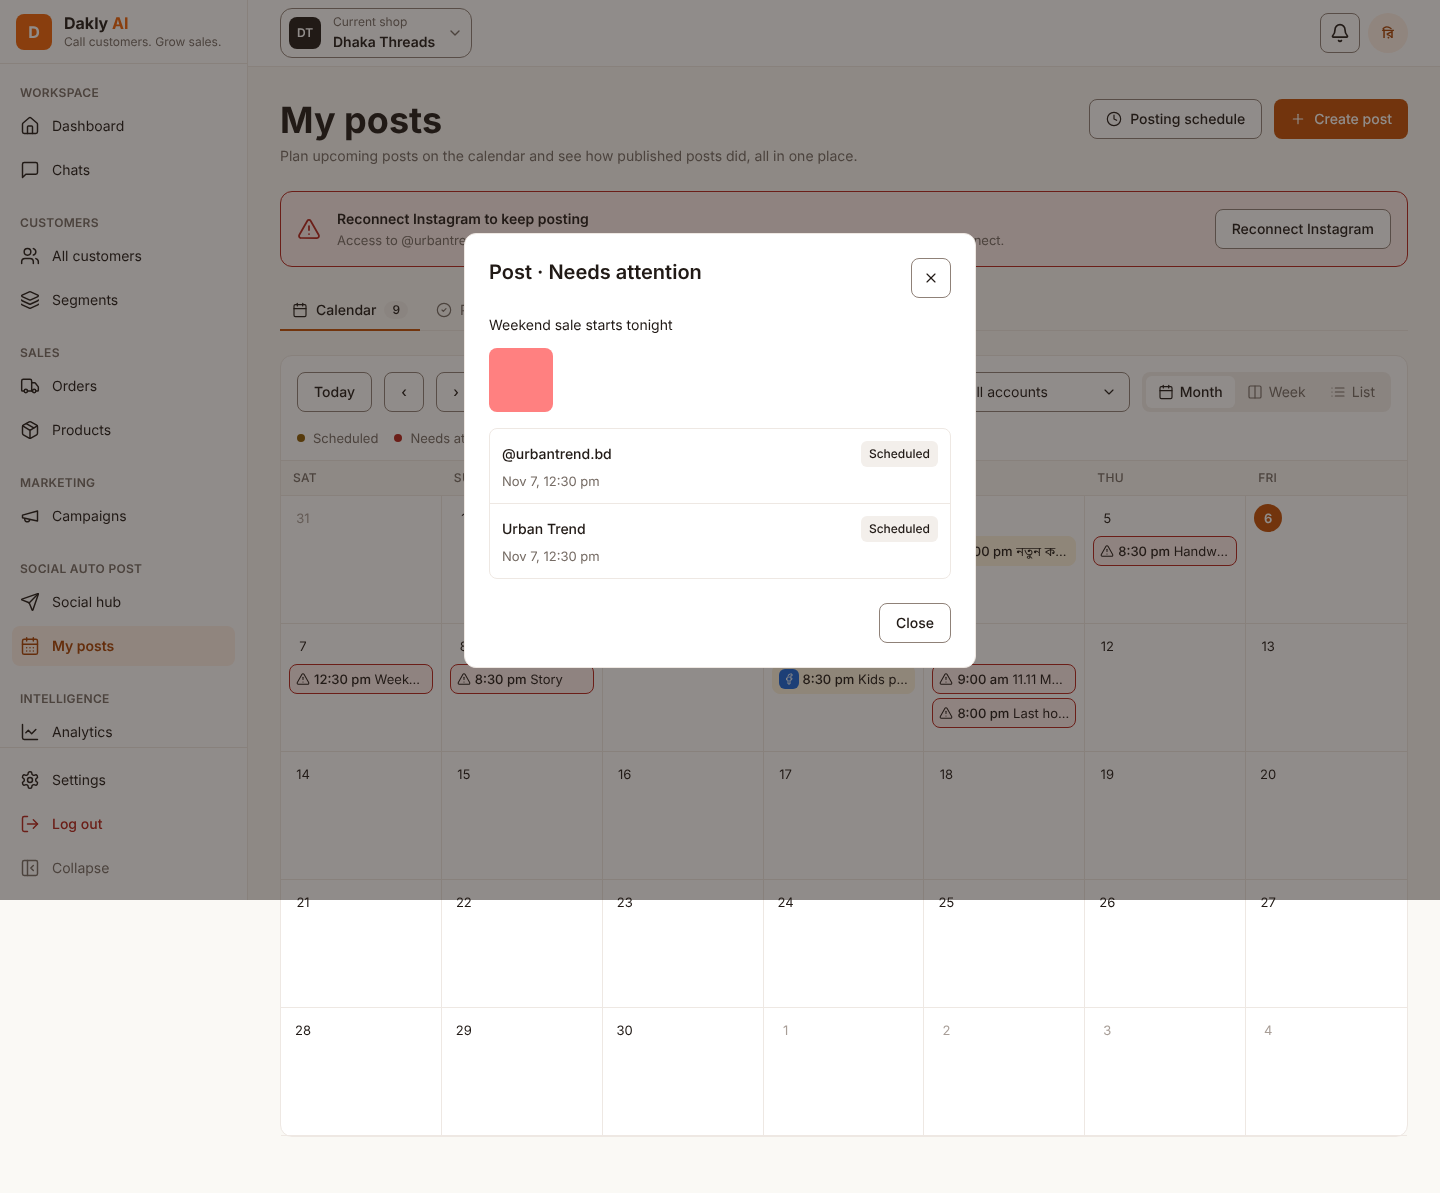
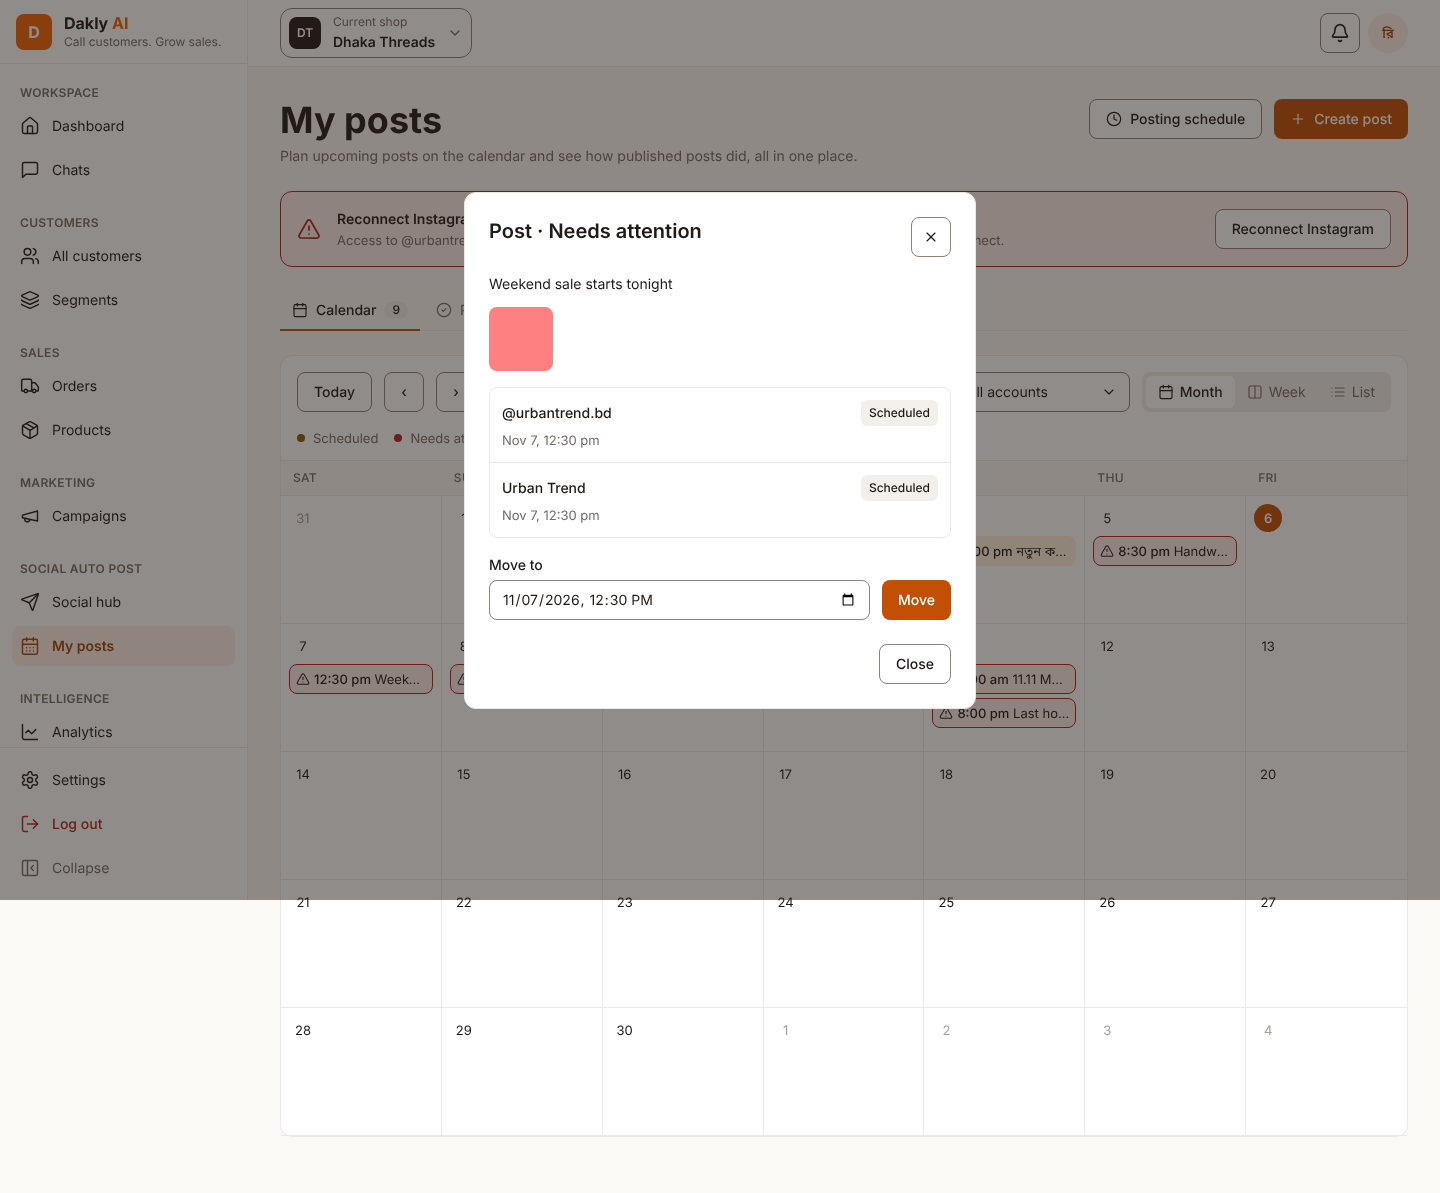
feat(soc-5): move a scheduled post from its details with a date and time

Changed region(s): [[0.3125, 0.1551, 0.6875, 0.5272], [0.3125, 0.3412, 0.6875, 0.6203]]

diff --git a/apps/web/src/features/social/components/post-details-dialog.tsx b/apps/web/src/features/social/components/post-details-dialog.tsx
@@ -1,13 +1,16 @@
 import Image from 'next/image';
+import { useState } from 'react';
 
 import { Badge } from '@dakly/ui/badge';
 import { Button } from '@dakly/ui/button';
 import { Dialog } from '@dakly/ui/dialog';
+import { Input } from '@dakly/ui/input';
+import { Label } from '@dakly/ui/label';
 
 import type { SocialAccount } from '../api/get-social-accounts';
-import { statusLabels, type CalendarEntry } from '../post-calendar';
+import { canMove, statusLabels, type CalendarEntry } from '../post-calendar';
 import { postTitle } from './post-chip';
-import { formatShortDateTime } from '@/lib/format-date';
+import { dhakaTimeOfDay, formatShortDateTime } from '@/lib/format-date';
 
 const targetLabels = {
   draft: 'Draft',
@@ -32,10 +35,12 @@ const targetVariants = {
 type PostDetailsDialogProps = {
   entry: CalendarEntry;
   accounts: SocialAccount[];
+  // Set when the person can schedule; moving by date and time is the keyboard route for dragging.
+  onMove?: (entry: CalendarEntry, scheduledFor: string) => void;
   onClose: () => void;
 };
 
-export function PostDetailsDialog({ entry, accounts, onClose }: PostDetailsDialogProps) {
+export function PostDetailsDialog({ entry, accounts, onMove, onClose }: PostDetailsDialogProps) {
   const { post } = entry;
   return (
     <Dialog
@@ -76,11 +81,44 @@ export function PostDetailsDialog({ entry, accounts, onClose }: PostDetailsDialo
           );
         })}
       </ul>
+      {onMove && canMove(entry) && <MoveField entry={entry} onMove={onMove} onClose={onClose} />}
       <div className="mt-6 flex justify-end">
         <Button variant="secondary" onClick={onClose}>
           Close
         </Button>
       </div>
     </Dialog>
+  );
+}
+
+type MoveFieldProps = {
+  entry: CalendarEntry;
+  onMove: (entry: CalendarEntry, at: string) => void;
+  onClose: () => void;
+};
+
+function MoveField({ entry, onMove, onClose }: MoveFieldProps) {
+  const [value, setValue] = useState(`${entry.dayKey}T${dhakaTimeOfDay(entry.at)}`);
+  return (
+    <div className="mt-4 flex flex-wrap items-end gap-3">
+      <div className="min-w-48 flex-1 space-y-1">
+        <Label htmlFor="move-post">Move to</Label>
+        <Input
+          id="move-post"
+          type="datetime-local"
+          value={value}
+          onChange={(event) => setValue(event.target.value)}
+        />
+      </div>
+      <Button
+        disabled={!value}
+        onClick={() => {
+          onMove(entry, `${value}:00+06:00`);
+          onClose();
+        }}
+      >
+        Move
+      </Button>
+    </div>
   );
 }

diff --git a/apps/web/src/features/social/components/my-posts-screen.spec.tsx b/apps/web/src/features/social/components/my-posts-screen.spec.tsx
@@ -101,6 +101,12 @@ function show(posts: PostResponse[]) {
 
 beforeEach(() => {
   vi.stubGlobal('matchMedia', () => ({ matches: false }));
+  HTMLDialogElement.prototype.showModal = function (this: HTMLDialogElement) {
+    this.setAttribute('open', '');
+  };
+  HTMLDialogElement.prototype.close = function (this: HTMLDialogElement) {
+    this.removeAttribute('open');
+  };
 });
 afterEach(() => {
   requests.length = 0;
@@ -208,4 +214,35 @@ it('shows the reason when the server refuses the move', async () => {
   expect((await screen.findByRole('alert')).textContent).toBe(
     'An account already has a post at this time',
   );
+});
+
+it('moves a post from the details dialog with a date and time, for people who can schedule', async () => {
+  query = 'view=list&date=2026-11-06';
+  show([post('a', 'Weekend sale', {})]);
+  await userEvent.click(await screen.findByRole('button', { name: /Weekend sale/ }));
+  const dialog = screen.getByRole('dialog');
+
+  fireEvent.change(within(dialog).getByLabelText('Move to'), {
+    target: { value: '2026-11-14T09:15' },
+  });
+  await userEvent.click(within(dialog).getByRole('button', { name: 'Move' }));
+
+  expect(await screen.findByText(/Moved “Weekend sale” to Nov 14/)).toBeTruthy();
+  expect(requests).toEqual([
+    {
+      method: 'POST',
+      url: expect.stringContaining('/posts/a/reschedule'),
+      body: JSON.stringify({ scheduledFor: '2026-11-14T09:15:00+06:00' }),
+    },
+  ]);
+});
+
+it('offers no move field for a published post', async () => {
+  query = 'view=list&date=2026-11-06';
+  show([
+    post('c', 'Mustard scarves', { status: 'published', publishedAt: '2026-11-02T14:00:00.000Z' }),
+  ]);
+  await userEvent.click(await screen.findByRole('button', { name: /Mustard scarves/ }));
+
+  expect(screen.queryByLabelText('Move to')).toBeNull();
 });

diff --git a/apps/web/src/features/social/components/my-posts-screen.tsx b/apps/web/src/features/social/components/my-posts-screen.tsx
@@ -9,7 +9,7 @@ import { QueryError } from '@dakly/ui/query-error';
 
 import { usePosts } from '../api/get-posts';
 import { useSocialAccounts, type SocialAccount } from '../api/get-social-accounts';
-import { buildEntries, type CalendarEntry } from '../post-calendar';
+import { buildEntries, timeOnDay, type CalendarEntry } from '../post-calendar';
 import { useMovePost } from '../use-move-post';
 import { useMyPostsParams } from '../use-my-posts-params';
 import { CalendarPanel } from './calendar-panel';
@@ -78,9 +78,16 @@ function MyPosts({ accounts, posts }: MyPostsProps) {
         url={url}
         canEdit={canEdit}
         onOpen={setOpen}
-        onMove={canEdit ? move : undefined}
+        onMove={canEdit ? (entry, day) => move(entry, timeOnDay(entry, day)) : undefined}
       />
-      {open && <PostDetailsDialog entry={open} accounts={accounts} onClose={() => setOpen(null)} />}
+      {open && (
+        <PostDetailsDialog
+          entry={open}
+          accounts={accounts}
+          onMove={canEdit ? move : undefined}
+          onClose={() => setOpen(null)}
+        />
+      )}
       <HubDialogs
         dialog={dialog}
         accounts={accounts}

diff --git a/apps/web/src/features/social/use-move-post.ts b/apps/web/src/features/social/use-move-post.ts
@@ -2,7 +2,7 @@ import { useState } from 'react';
 
 import { useReschedulePost } from './api/reschedule-post';
 import { postTitle } from './components/post-chip';
-import { timeOnDay, type CalendarEntry } from './post-calendar';
+import type { CalendarEntry } from './post-calendar';
 import { formatShortDate } from '@/lib/format-date';
 
 type Notice = { message: string; tone?: 'error' };
@@ -11,8 +11,7 @@ type Notice = { message: string; tone?: 'error' };
 export function useMovePost() {
   const reschedule = useReschedulePost();
   const [notice, setNotice] = useState<Notice | null>(null);
-  const move = (entry: CalendarEntry, day: string) => {
-    const scheduledFor = timeOnDay(entry, day);
+  const move = (entry: CalendarEntry, scheduledFor: string) => {
     reschedule.mutate(
       { postId: entry.post.id, scheduledFor },
       {

diff --git a/apps/web/e2e/my-posts.spec.ts b/apps/web/e2e/my-posts.spec.ts
@@ -279,6 +279,10 @@ test('moves a scheduled post to another day by dragging it', async ({ page, cont
         page.getByRole('gridcell').filter({ has: page.locator('time[datetime="2099-03-13"]') }),
       );
     await expect(page.getByText(/Moved “Drag me to Friday” to Mar 13/)).toBeVisible();
+    await page.getByRole('button', { name: /Drag me to Friday/ }).click();
+    await expect(page.getByLabel('Move to')).toHaveValue('2099-03-13T20:30');
+    await capture(page, 'move-to');
+    await page.getByRole('button', { name: 'Close', exact: true }).click();
     await expect(
       page
         .getByRole('gridcell')

diff --git a/docs/features/08-content-and-social.md b/docs/features/08-content-and-social.md
@@ -42,7 +42,7 @@ Shop owners know they should post every few days and write good Bangla captions,
 | Social hub        | Connected channels (Facebook Pages and Instagram accounts with followers and status Connected, Access expired with Reconnect; TikTok Coming soon with Notify me); Connect account; Drafts (private to creator until scheduled) with Edit, Duplicate, Delete; Posting schedule; Create post; banner when an account needs reconnecting.                                                                                                                                                                                                                                                                                                                                                                                                                                                                                                                       |
 | Create post       | Post to (Facebook Pages and Instagram accounts as chips); type Post or Story; caption (one for all, or customise per network); AI caption panel (topic, tone, language → 3 options; tools Shorten, Friendlier, Translate to Bangla or English, Add hashtags); media (up to 10 photos from upload or from Products); Facebook link (optional); Instagram first comment (optional); live preview per network; When: Add to queue (next open slot, recommended), Pick date and time, Publish now; Save draft.                                                                                                                                                                                                                                                                                                                                                   |
 | Posting schedule  | Weekly time slots per day (default from follower activity, for example Sat 12:30 and 20:30, Fri 11:00 and 20:30); Use recommended times; add or remove slots; time zone note.                                                                                                                                                                                                                                                                                                                                                                                                                                                                                                                                                                                                                                                                                |
-| My posts          | Tabs Calendar and Published. Calendar: Month, Week, List; filter by account; colour legend Scheduled, Needs attention, Published, Failed; drag a scheduled post to another day; click opens the post. Published: sort by newest, most reach, most reactions; each with reach, reactions, comments, link taps and orders. Built so far: the Calendar and Published tabs (the Calendar count is upcoming posts); weeks start on Saturday; phones open on List; a post with a blocked account shows as Needs attention. A scheduled post moves to another day by dragging it, keeping its time; the move follows the schedule rules (future time, one post per account per time). Orders per post (Q17) follow.                                                                                                                                                 |
+| My posts          | Tabs Calendar and Published. Calendar: Month, Week, List; filter by account; colour legend Scheduled, Needs attention, Published, Failed; drag a scheduled post to another day; click opens the post. Published: sort by newest, most reach, most reactions; each with reach, reactions, comments, link taps and orders. Built so far: the Calendar and Published tabs (the Calendar count is upcoming posts); weeks start on Saturday; phones open on List; a post with a blocked account shows as Needs attention. A scheduled post moves to another day by dragging it, keeping its time, or from its details with a Move to date and time; the move follows the schedule rules (future time, one post per account per time). Orders per post (Q17) follow.                                                                                               |
 
 ### How it works
 
